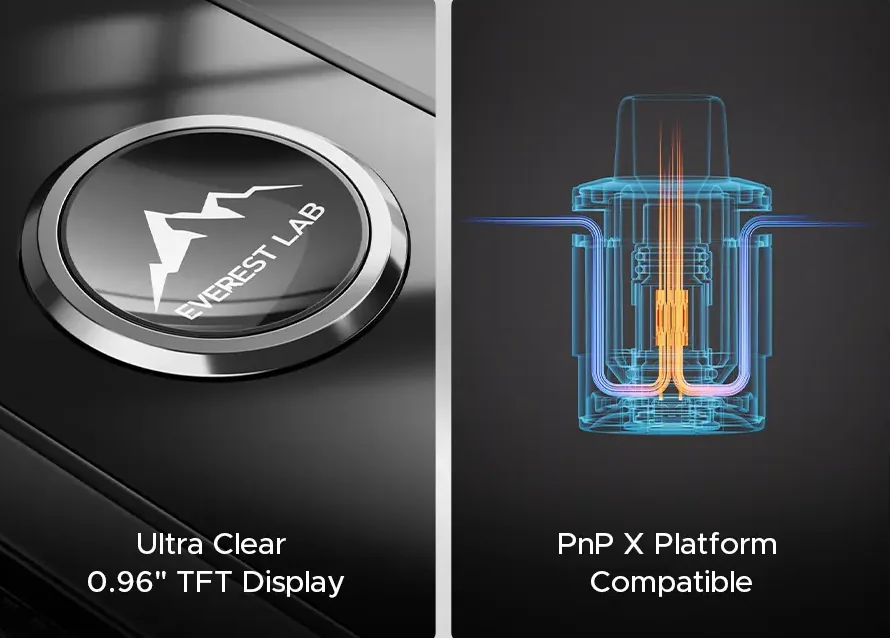
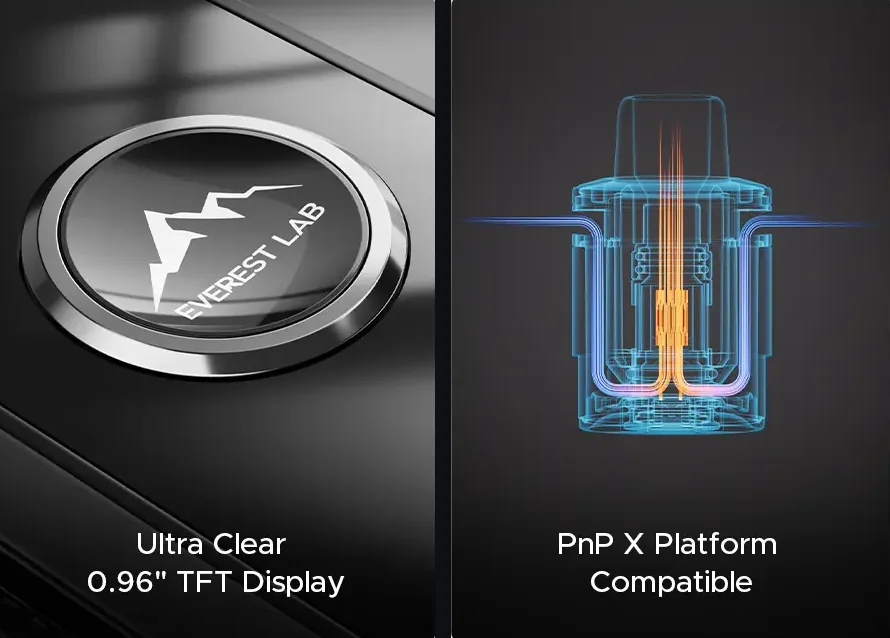
fix: checker #255 round 1 - S3 posters without the pale page-background bands/seam, X3 battery text limited to VOOPOO's facts, S3 drawStyle MTL/RDL, owner words quoted in section 16

Changed region(s): [[0.4854, 0.0, 0.5157, 1.0]]

diff --git a/src/data/products/voopoo.ts b/src/data/products/voopoo.ts
@@ -718,7 +718,8 @@ export const voopooProducts: Product[] = [
       wattageMax: 60,
       screenType: "color-display",
       screenSize: "0.96\"",
-      drawStyle: "DTL",
+      // Batch 2d (04/10): VOOPOO's own comparison table — S3 "Best For: MTL / RDL / light DTL" (was "DTL").
+      drawStyle: "MTL/RDL",
       portability: "standard",
       beginnerFriendly: false,
       chargingType: "USB-C, 5V/2A",
@@ -755,7 +756,7 @@ export const voopooProducts: Product[] = [
     // cut whole out of its long DRAG S3 / X3 poster strip (+ the X3 unlock poster), down-sized only: 2d/blocks.js.
     storyDetails: true,
     storyLayout: "stage",
-    storyCover: { src: "/assets/products/drag-s3/story-cover.webp", alt: "Official VOOPOO banner — the DRAG S3", sourceName: "VOOPOO", sourceUrl: S3_PAGE, width: 972, height: 468 },
+    storyCover: { src: "/assets/products/drag-s3/story-cover.webp", alt: "Official VOOPOO banner — the DRAG S3", sourceName: "VOOPOO", sourceUrl: S3_PAGE, width: 901, height: 468 },
     colorVariants: [
       { id: "spray-black", name: "Spray Black", swatchHex: "#363636", image: { src: "/assets/products/drag-s3/variant-spray-black-v2.webp", alt: "VOOPOO DRAG S3, Spray Black" } },
       { id: "white", name: "White", swatchHex: "#cdcdcd", image: { src: "/assets/products/drag-s3/variant-white-v2.webp", alt: "VOOPOO DRAG S3, White" } },
@@ -938,8 +939,8 @@ export const voopooProducts: Product[] = [
       {
         id: "battery",
         title: "Bring your own cell",
-        description: "No spare with you? Plug the cable in and the cell charges inside the device — no need to take it out.",
-        subline: "Keep a spare, swap it in and carry on.",
+        description: "There's no built-in battery: when the cell runs down, swap in a charged spare and carry on.",
+        subline: "Choose the cell that suits how you vape.",
         image: { src: "/assets/products/drag-x3/story-battery.webp", alt: "VOOPOO's DRAG X3 poster — 18650 and 21700 cells, and the capacitive unlock sensor", sourceName: "VOOPOO", sourceUrl: X3_PAGE, width: 890, height: 644 },
       },
       {
@@ -961,7 +962,7 @@ export const voopooProducts: Product[] = [
         title: "The PnP X cartridge",
         description: "The kit comes with the DTL cartridge. For MTL, switch to the PnP X Cartridge MTL on the same device — VOOPOO sells it separately.",
         subline: "A chamber designed to keep the e-liquid in.",
-        image: { src: "/assets/products/drag-x3/story-pnpx.webp", alt: "VOOPOO's DRAG X3 poster — the PnP X platform and its leak-proof chamber", sourceName: "VOOPOO", sourceUrl: X3_PAGE, width: 900, height: 1365 },
+        image: { src: "/assets/products/drag-x3/story-pnpx.webp", alt: "VOOPOO's DRAG X3 poster — the PnP X platform and its leak-proof chamber", sourceName: "VOOPOO", sourceUrl: X3_PAGE, width: 900, height: 1356 },
       },
     ],
     compatibility: [{ type: "pod", label: "PnP X Cartridge (PnP X coils)", note: "PnP X Cartridge DTL (5mL) in the kit; takes every PnP X coil." }, usbC2A],

diff --git a/src/i18n/story-copy.ts b/src/i18n/story-copy.ts
@@ -947,11 +947,11 @@ export const STORY_COPY: Record<string, Record<string, StoryBlockCopy>> = {
   "drag-x3": {
     "battery": {
       title: { th: "ใส่ถ่านที่เลือกเองได้", en: "Bring your own cell", zh: "电池由你来选" },
-      subline: { th: "มีก้อนสำรองไว้ ก็สลับใส่แล้วสูบต่อได้ทันที", en: "Keep a spare, swap it in and carry on.", zh: "备一颗电池，换上就能接着抽。" },
+      subline: { th: "เลือกก้อนที่เหมาะกับการใช้งานได้เอง", en: "Choose the cell that suits how you vape.", zh: "按你的使用习惯选择电池。" },
       body: {
-        th: "ถ้าไม่ได้พกก้อนสำรอง ก็เสียบสายชาร์จถ่านในเครื่องได้เลย ไม่ต้องถอดออกมาชาร์จแยก",
-        en: "No spare with you? Plug the cable in and the cell charges inside the device — no need to take it out.",
-        zh: "没带备用电池也没关系，插上线就能在机内充电，不用取出来单独充。",
+        th: "เครื่องรุ่นนี้ไม่มีแบตในตัว เมื่อถ่านหมด ก็เปลี่ยนเป็นก้อนสำรองที่ชาร์จไว้แล้วสูบต่อได้เลย",
+        en: "There's no built-in battery: when the cell runs down, swap in a charged spare and carry on.",
+        zh: "机身没有内置电池：电池没电时，换上一颗充好电的备用电池就能接着抽。",
       },
       points: [
         { text: { th: "ชาร์จผ่าน USB-C 5V/2A", en: "USB-C, 5V/2A charging", zh: "USB-C 充电，5V/2A" }, specKey: "charging" },

diff --git a/docs/HANDOFF.md b/docs/HANDOFF.md
@@ -73,7 +73,7 @@ GitHub github.com/dhetchaiyakrith24/okami24-web (private) · read first = skill 
   (13.7 big (2), own PR, + BSOT §21).
   Higgsfield: credits without asking (IMAGE_SPEC §0 item 7) — check `balance` first, report the spend (none spent 03–04/10).
 4 waiting on owner:
-  (closed 04/10: (49) = "ผสมกัน" — item 3 VOICE · (50) owner saw DRAG 6 live: only remark = the all-colours image (item 5), "go on".)
+  (closed 04/10: (49) = "ผสมกัน" — item 3 VOICE · (50) owner saw DRAG 6 live: only remark = the all-colours image (item 5), then "แก้ละไปต่อเลยครับ" (Friday read: note it and move on [เชื่อว่า]).)
   Still to look at on live: G4 Pro + G4 Pro KOKO (1c) as a whole · G4 Pro new colours (c) · G4 mini two all-colours images (b).
   (39) look at the Drag S3 / X3 / VINCI S colours + cards (#204) and the two-group lineups (#205-#207) on live — reversible by revert.
   (38) one lifestyle sample like UWELL's real-shot.webp — the owner wants to see it before deciding where it goes.
@@ -83,7 +83,7 @@ GitHub github.com/dhetchaiyakrith24/okami24-web (private) · read first = skill 
   Answered 03/10 (do not ask again): "ultra-shatterproof" stays OFF both G4 Pro pages · G5 repeats = A keep · logos: Kardinal = the
   maker's "Kardinal" word logo, site name "KS" stays · DOTMOD = text chip · batch 1c words locked (THAI_STYLE ก้อน 1c) incl. "แรงถึงคอ".
 5 open / dated:
-  - DEFERRED by the owner 04/10 (come back after the brand pages): DRAG 6 all-colours image lineup-v3 — "รูปรวมยังเล็กไป สินค้ายังดู
+  - DEFERRED by the owner 04/10 ("ข้ามไปตัวอื่นก่อน ไว้ค่อยกลับมาแก้" — no date; Friday's plan: after the VOOPOO pages): DRAG 6 all-colours image lineup-v3 — "รูปรวมยังเล็กไป สินค้ายังดู
     เป็นกราฟฟิก … ไว้ค่อยกลับมาแก้เรื่องภาพเหมือนกราฟฟิก" (same eye as LESSONS ช9: AI-made light reads as graphic; 7 devices too small).
     Also not fixed (checker #253 taste): text inside the 3 wide DRAG 6 posters ~6–7 px at 390 · "มีโหมด SMART RBA และ TC-TCR" reads as 2.
   - 7 highlight chips wrap 6 + 1 at 1440 on caliburn-g4-pro-koko and caliburn-g3-pro-koko (chip bar is lg:grid-cols-6) — shared
